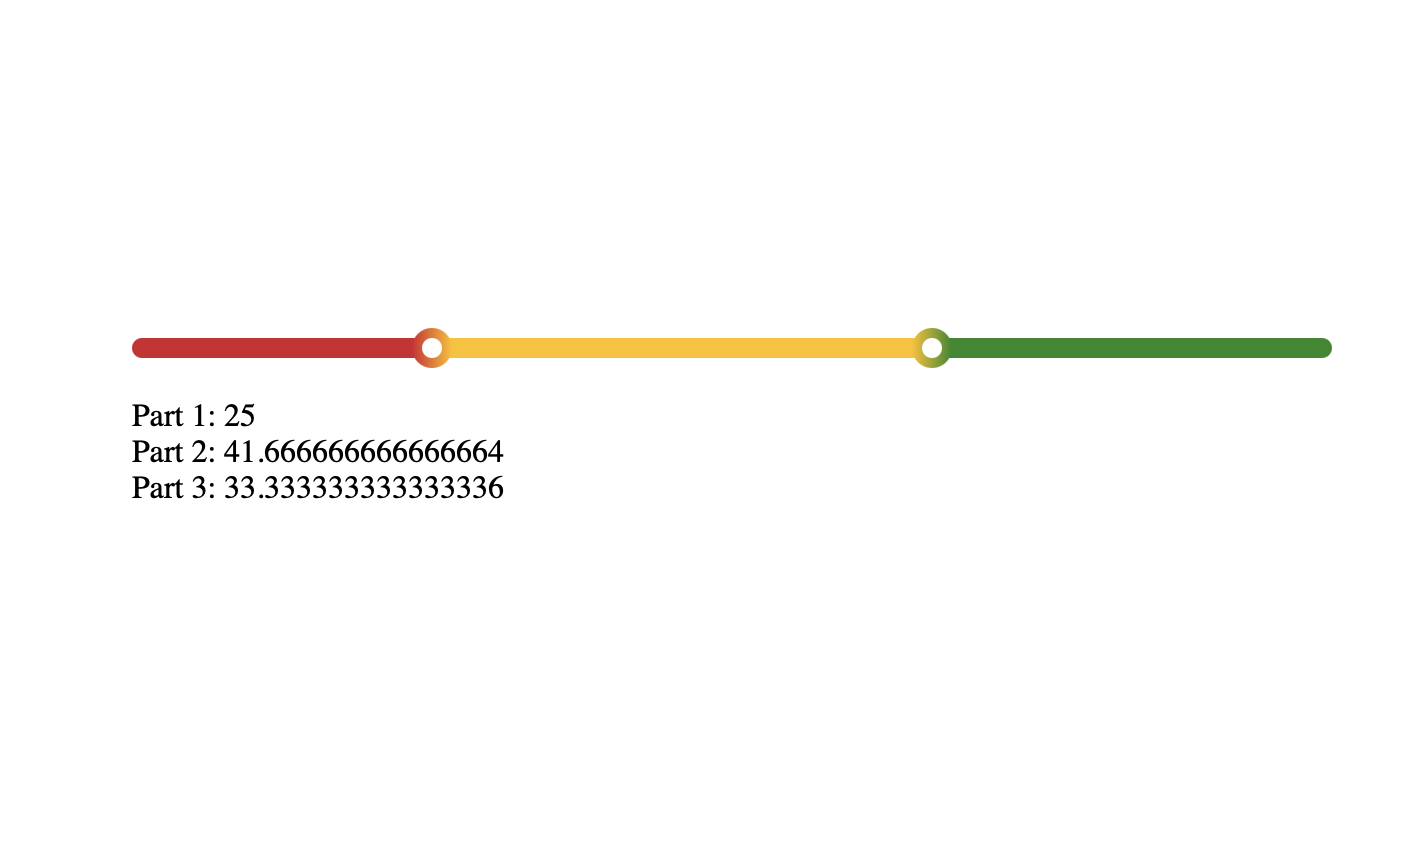
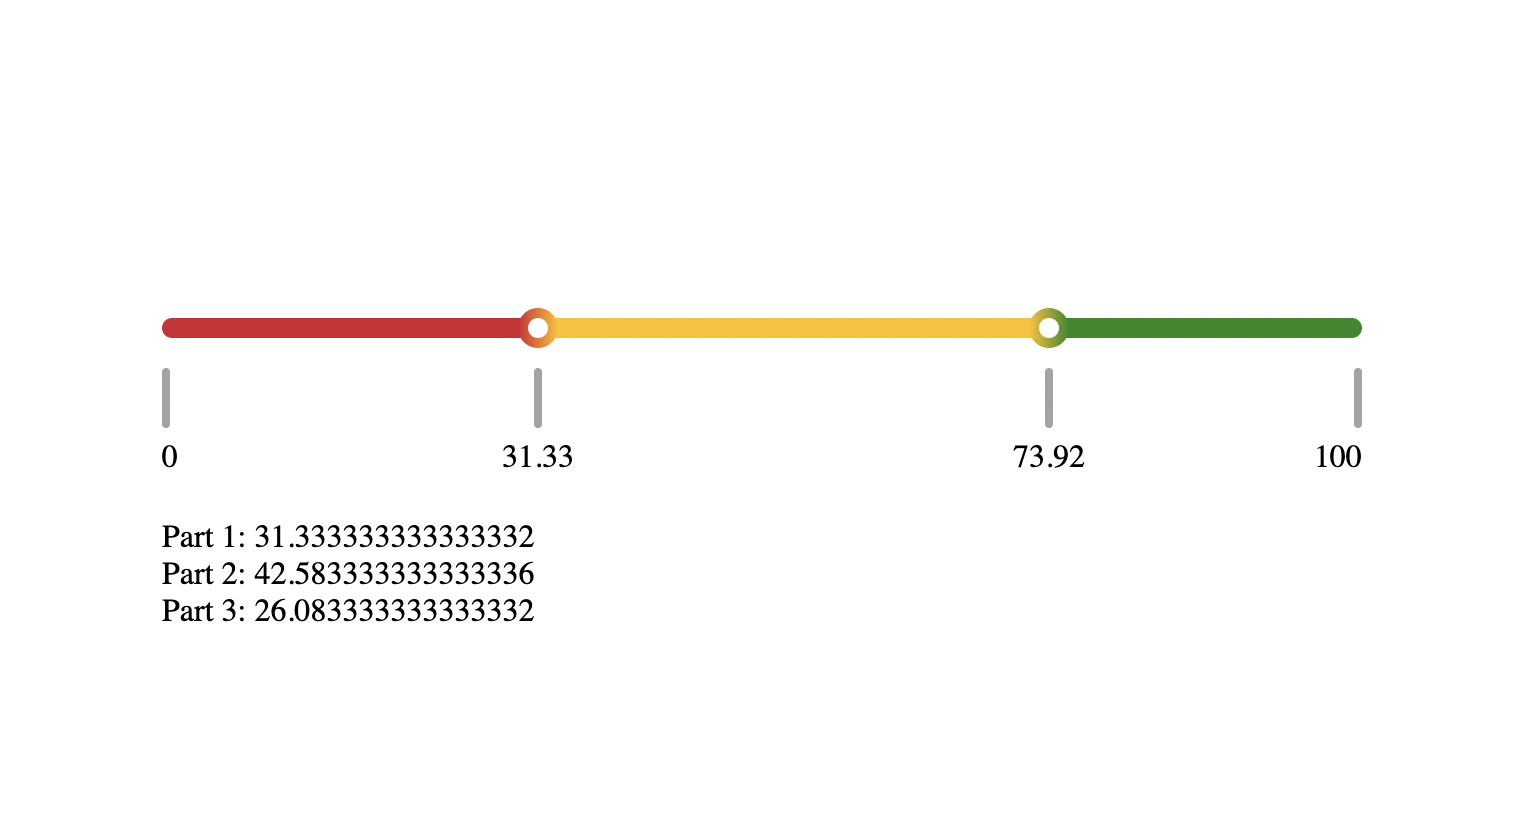
changes

diff --git a/src/ProgressBar.jsx b/src/ProgressBar.jsx
@@ -55,29 +55,57 @@ const ProgressBar = () => {
 
   return (
     <div className={styles.container} ref={progressBarRef}>
-      <div className={styles.progressBarContainer}>
-        <div
-          className={`${styles.bar} ${styles.red}`}
-          style={{ width: `${min}px`, left: 0 }}
-        />
-        <div
-          className={`${styles.bar} ${styles.amber}`}
-          style={{ width: `${max - min}px`, left: `${min}px` }}
-        />
-        <div
-          className={`${styles.bar} ${styles.green}`}
-          style={{ width: `${maxWidth - max}px`, left: `${max}px` }}
-        />
-        <div
-          className={`${styles.handle} ${styles.handle1}`}
-          onMouseDown={() => setDragging("h1")}
-          style={{ left: `${min-10}px` }}
-        />
-        <div
-          className={`${styles.handle} ${styles.handle2}`}
-          onMouseDown={() => setDragging("h2")}
-          style={{ left: `${max-10}px` }}
-        />
+      <div style={{ height: "80px" }}>
+        <div className={styles.progressBarContainer}>
+          <div
+            className={`${styles.bar} ${styles.red}`}
+            style={{ width: `${min}px`, left: 0 }}
+          >
+            <div
+              className={styles.handleTextContainer}
+              style={{ alignItems: "flex-start" }}
+            >
+              <div className={styles.handleTextPointer} />
+              <div>{0}</div>
+            </div>
+          </div>
+          <div
+            className={`${styles.bar} ${styles.amber}`}
+            style={{ width: `${max - min}px`, left: `${min}px` }}
+          />
+          <div
+            className={`${styles.bar} ${styles.green}`}
+            style={{ width: `${maxWidth - max}px`, left: `${max}px` }}
+          >
+            <div
+              className={styles.handleTextContainer}
+              style={{ alignItems: "flex-end" }}
+            >
+              <div className={styles.handleTextPointer} />
+              <div>{100}</div>
+            </div>
+          </div>
+          <div
+            className={`${styles.handle} ${styles.handle1}`}
+            onMouseDown={() => setDragging("h1")}
+            style={{ left: `${min - 10}px` }}
+          >
+            <div className={styles.handleTextContainer}>
+              <div className={styles.handleTextPointer} />
+              <div>{((min * 100) / maxWidth).toFixed(2)}</div>
+            </div>
+          </div>
+          <div
+            className={`${styles.handle} ${styles.handle2}`}
+            onMouseDown={() => setDragging("h2")}
+            style={{ left: `${max - 10}px` }}
+          >
+            <div className={styles.handleTextContainer}>
+              <div className={styles.handleTextPointer} />
+              <div>{((max * 100) / maxWidth).toFixed(2)}</div>
+            </div>
+          </div>
+        </div>
       </div>
       <div style={{ marginTop: "20px" }}>
         <div>Part 1: {part1}</div>

diff --git a/src/index.module.css b/src/index.module.css
@@ -45,10 +45,26 @@
   background: linear-gradient(white, white) padding-box,
     linear-gradient(to right, #d2222d, #ffbf00) border-box;
 
-    /* second gradient spans from border to whole element and first one only the element and the border being transparent we get the actual affect */
+  /* second gradient spans from border to whole element and first one only the element and the border being transparent we get the actual affect */
 }
 
 .handle2 {
   background: linear-gradient(white, white) padding-box,
     linear-gradient(to right, #ffbf00, #238823) border-box;
+}
+
+.handleTextContainer {
+  width: 100%;
+  display: flex;
+  flex-direction: column;
+  align-items: center;
+}
+
+.handleTextPointer {
+  height: 30px;
+  width: 2px;
+  border: 2px solid rgb(164, 163, 163);
+  margin-top: 25px;
+  border-radius: 2px;
+  margin-bottom: 5px;
 }

diff --git a/README.md b/README.md
@@ -1,3 +1,3 @@
-This is the demo image: 
+This is the demo gif: 
 
-![alt text](./demo.png)
+![alt text](./demo.gif)
